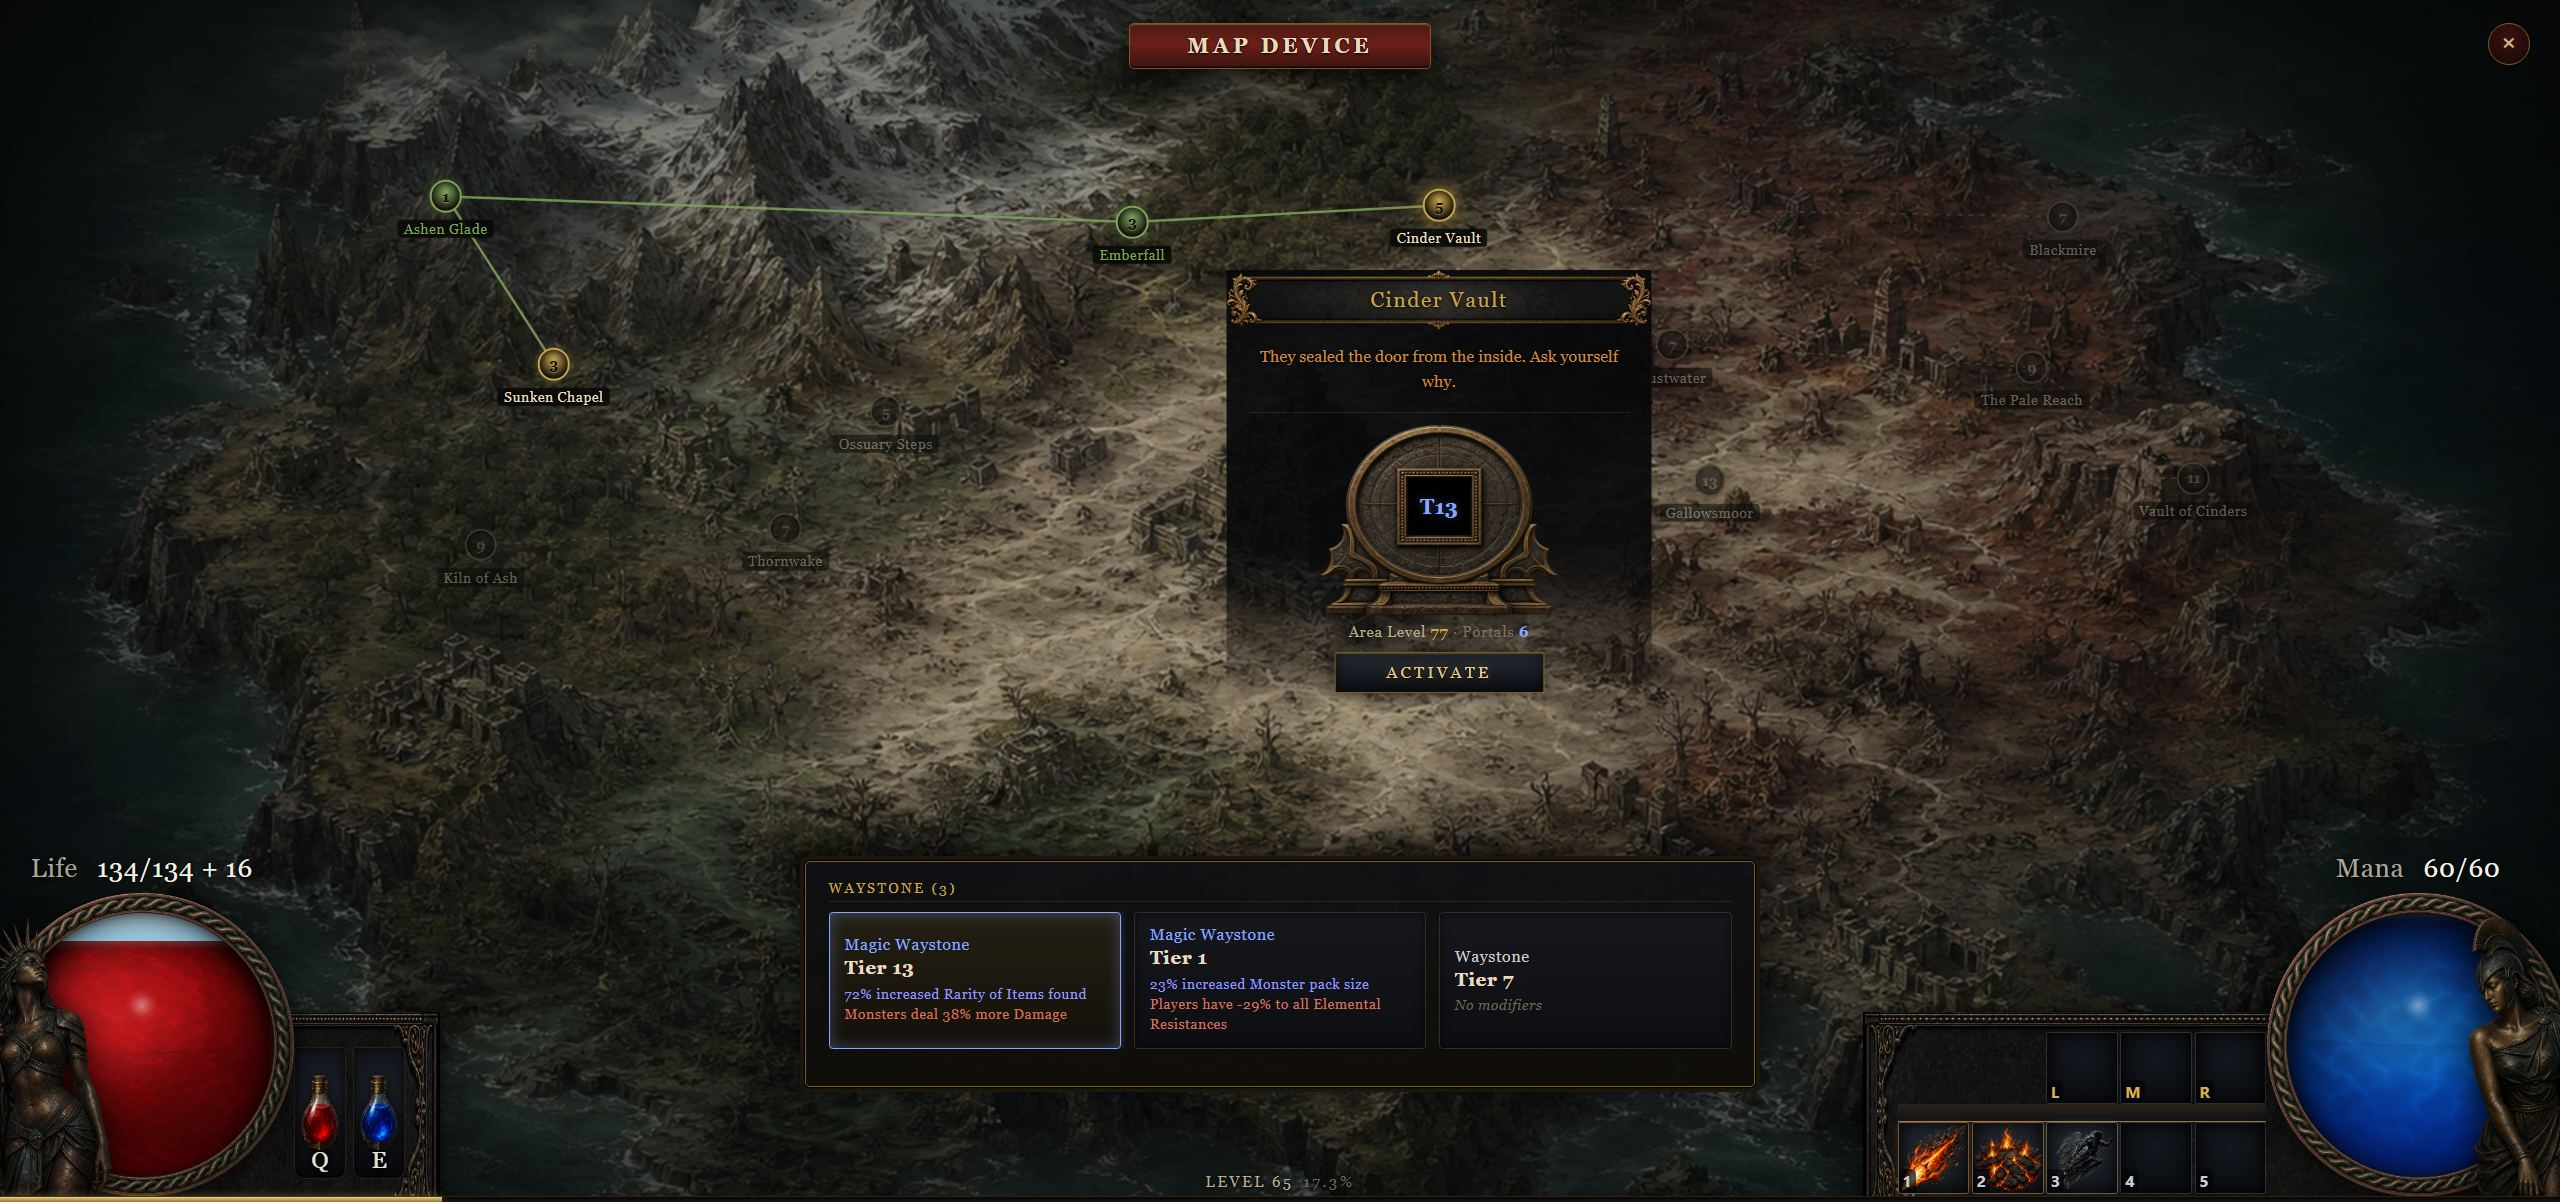
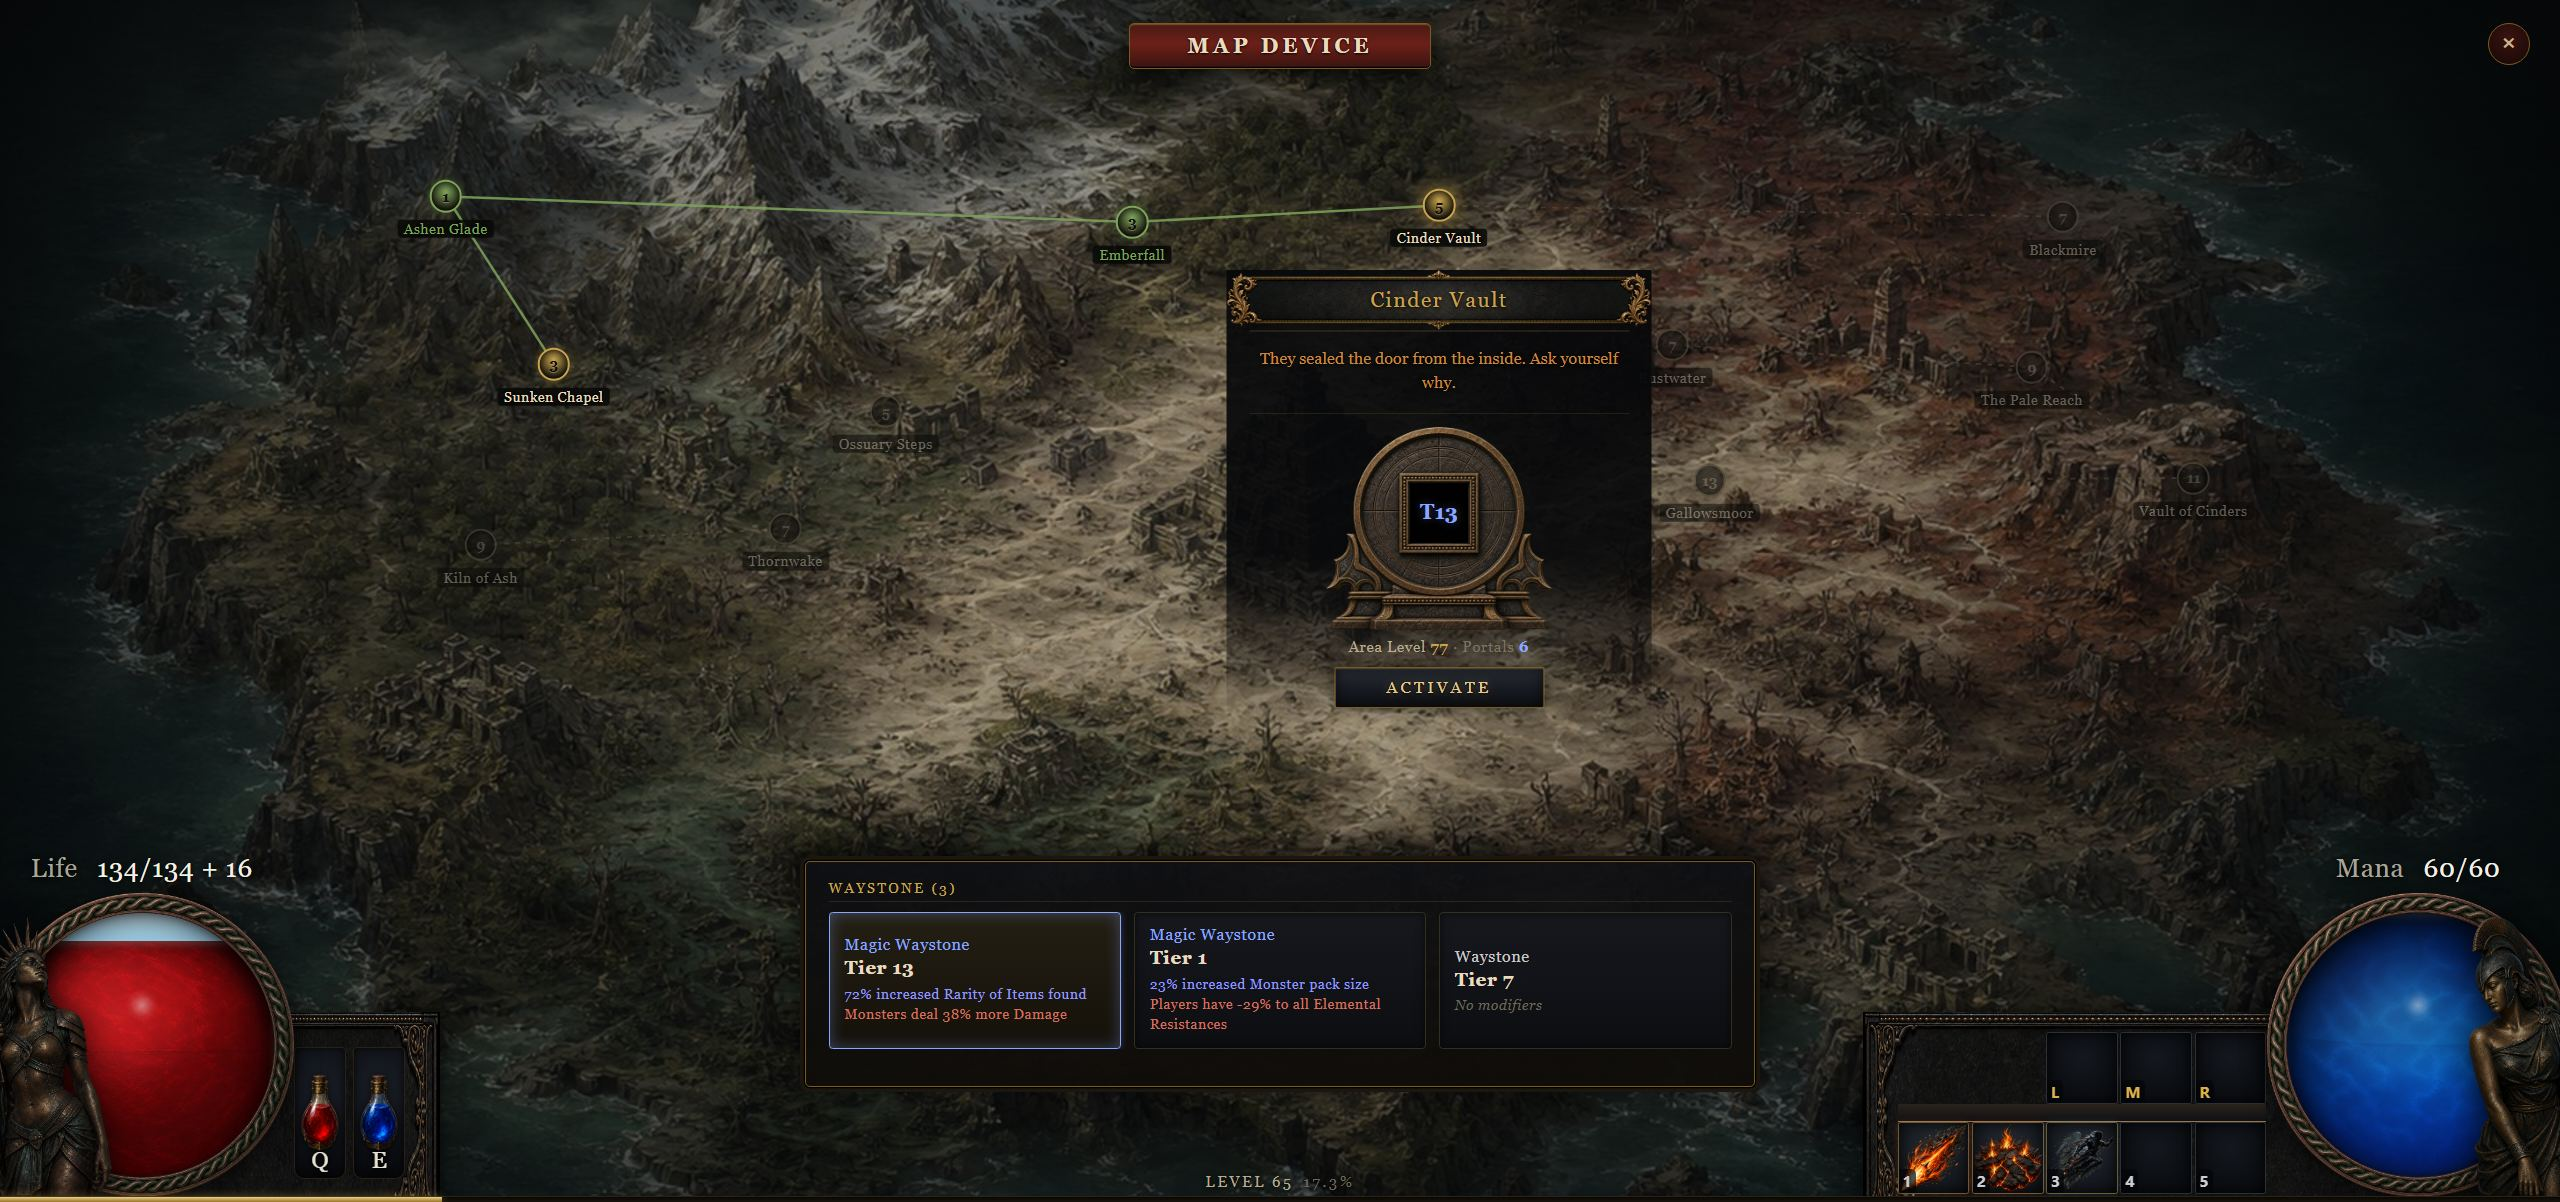
fix(atlas): the socket disc was an oval, 802 by 668
Regenerated on a square canvas with the ellipse named as the one defect: the
ring measures 759 by 759 now. The reject is deleted rather than kept, and both
assets are cropped to their alpha bounds and downscaled (1.5MB -> 422KB,
367KB -> 55KB) since neither is drawn wider than 340px.

Also: the reference screenshot recovered out of the session transcript to
poe2-screenshots/poe2-atlas-node-popup.png, a second hairline above the lore
where the reference has one, and a devlog rule to confirm the screen with the
user before capturing it.

Changed region(s): [[0.5, 0.3386, 0.625, 0.6156], [0.5, 0.277, 0.625, 0.3078]]

diff --git a/apps/web/src/hud/PreparationPanel.tsx b/apps/web/src/hud/PreparationPanel.tsx
@@ -236,12 +236,16 @@ function AtlasMap(props: {
   );
 }
 
-/** atlas_node_header_v1.png is 1024x144; the band keeps that ratio or the filigree shears. */
+/** atlas_node_header_v1.png is 512x72; the band keeps that ratio or the filigree shears. */
 const POPUP_W = 340;
-const HEADER_H = Math.round((POPUP_W * 144) / 1024);
-/** atlas_node_socket_v1.png is 1024x820, and its empty slot is centred on the disc. */
-const SOCKET_W = 190;
-const SOCKET_H = Math.round((SOCKET_W * 820) / 1024);
+const HEADER_H = Math.round((POPUP_W * 72) / 512);
+/**
+ * atlas_node_socket_v2.png is 512x464 and its disc fills 76% of that width, so this
+ * puts the disc at 40% of the panel, which is the ratio in poe2-atlas-node-popup.png.
+ * v1 was scrapped for an oval ring: it measured 802 wide by 668 tall.
+ */
+const SOCKET_W = 180;
+const SOCKET_H = Math.round((SOCKET_W * 464) / 512);
 
 /**
  * A place, opened. PoE2's Atlas answers a click on a node with a small panel
@@ -322,6 +326,9 @@ function NodePopup(props: {
         </span>
       </div>
 
+      {/* The lore sits between two hairlines in the reference, not under one. */}
+      <div style={{ height: 1, margin: "0 18px", background: `${GOLD}22` }} />
+
       {/* The rumour, in the reference's amber. It is the only line here that is
           not a number, and it is what makes a node a destination. */}
       <div
@@ -353,18 +360,18 @@ function NodePopup(props: {
           position: "relative",
           padding: 0,
           border: "none",
-          background: "url(/textures/ui/atlas_node_socket_v1.png) center/100% 100% no-repeat",
+          background: "url(/textures/ui/atlas_node_socket_v2.png) center/100% 100% no-repeat",
         }}
       >
         {stone && (
           <span
             style={{
               position: "absolute",
-              // Measured off the art: the empty slot spans x 376..649, y 223..477
-              // of 1024x820, so its centre is high of the image's middle because
+              // Measured off the art: the empty slot spans x 189..322, y 125..264
+              // of 512x464, so its centre is high of the image's middle because
               // the disc stands on a plinth.
               left: "50%",
-              top: "42.7%",
+              top: "41.9%",
               transform: "translate(-50%, -50%)",
               fontFamily: SERIF,
               // Sized to the slot: it is 273x254 of the art, so at this width the

diff --git a/devlog/README.md b/devlog/README.md
@@ -225,6 +225,6 @@ The hideout gets storage, quick transfer, and a bench that turns leftovers into 
 <td width="33%"><img src="screenshots/2026-07-27-vendor-purchase-window.jpeg" alt="The purchase window open at the left: a stocked shelf of gear with gold prices in each cell, a keyword box along its foot, and the shard bank under it" width="100%"><br><sub><b>The disenchanter becomes a shop</b> - the NPC has been standing over his brazier since the hideout was built, and all he could do was take things. Buying needs a price, and this game had no money at all: <code>docs/02</code> line 5 refuses to invent PoE's vendor price formulas because they were never published, which is exactly why the disenchanter pays in <em>shards</em> - the one economy number PoE2 does publish. So gold arrives, and every number in <code>vendor.ts</code> is ours and says so. The margin is the load-bearing one: a shop that pays what it charges is a gold printer, so the sell price is 20% of the ask, and the test that matters sweeps every rarity at every level asserting <code>sell &lt; buy</code> rather than checking one example. The shelf is the other half. It is rolled in the sim from the seed, never in React, or replay checksums drift - and it is a pure function of the world seed <em>and the level that asked for it</em>, so <code>docs/02</code> §17's "a portion refreshes on level-up" costs one line at the level-up rather than a mutable restock seed on the session. It still had to be a real container: derive it fresh on load and a reload silently restocks whatever was just bought, so the holes persist. Two things the reference settled that instinct would have got wrong. PoE1's keyword box <b>highlights</b> rather than filters - the goods stay where they are and everything else falls back, so a half-typed word never reshuffles the shelf under the cursor. And the gold counter is not in the purchase window at all; it lives in the inventory strip beside it, which is where ours already had a hardcoded <code>0</code> waiting. One deliberate departure: the reference grid is 12x12 and ours is 12x8, because PoE1's vendors stock a whole page and ours stocks twelve pieces - the four rows saved are what keeps the sell block clear of the life globe instead of behind it. Selling is still one gesture and now pays twice: everything the counter takes pays gold, and magic or better <em>also</em> breaks down into shards, so the pips survive rather than being replaced by a flat coin payout. That also fixed a bug the stash has been hiding since it shipped - <code>position: sticky</code> measures <code>top</code> from the scrollport's padding edge, so a header pulled up by a negative margin and pinned at <code>0</code> parks 20px lower than the flow put it and quietly eats that much of the next child. Invisible under a grid's empty lattice; not invisible under a caption.</sub></td>
 </tr>
 <tr>
-<td width="33%"><img src="screenshots/2026-07-27-atlas-node-panel.jpeg" alt="The Atlas with Cinder Vault opened: a small dark panel standing on that node with a gilt filigree name band, an amber line of lore, a carved socket holding a Tier 13 stone, and ACTIVATE under it" width="100%"><br><sub><b>A place opens where it stands</b> - the Atlas answered a click on a node by lighting the medallion and filling in a form at the bottom of the screen, which is a settings dialog wearing a map. PoE2 answers it with a small panel standing <em>on the node</em>, and the anchoring is the whole feature: what you are about to commit six portals to is drawn on the exact spot you are committing to, so the decision stays a decision about a place rather than about a row in a list. It lives inside the node field for that reason, so its <code>left</code> is the node's own graph coordinate and not a pixel offset that has to be recomputed when the field is inset. Three things only the reference settles. It flips <b>below</b> the medallion near the top edge and above it everywhere else, and below has 26px further to fall than above needs to rise, because the medallion wears its name plate underneath and the one thing this panel must never cover is the name of the place it just opened. The body has straight sides and no bottom edge at all - it hangs off its header band and dissolves into the ground, so the map and the panel stay one picture; the first pass faded all three sides into a soft blob and lost the reference's plate entirely. And the lore line is the only thing on the panel that is neither a number nor a colour, which is exactly what makes a node a destination instead of a chore: <code>flavour</code> is fixed per node index alongside the name, because the layout is seeded per account and the place is not. The socket is generated art rather than a CSS box, and its slot was <em>measured</em> off the file - x 376..649, y 223..477 of 1024x820 - so the stone sits in the opening at any panel width instead of near it, with the tier glyph sized to the ~50px hole rather than climbing the moulding. Clicking the socket takes the stone back out; clicking the node again shuts the place, since a panel standing on the map has to be dismissible without losing your place on it. The stone tray stays docked at the foot and keeps the choosing, because a rare Waystone's four modifier lines do not fit in a 340px column and shrinking them to fit would hide the risk this panel exists to show.</sub></td>
+<td width="33%"><img src="screenshots/2026-07-27-atlas-node-panel.jpeg" alt="The Atlas with Cinder Vault opened: a small dark panel standing on that node with a gilt filigree name band, an amber line of lore, a carved socket holding a Tier 13 stone, and ACTIVATE under it" width="100%"><br><sub><b>A place opens where it stands</b> - the Atlas answered a click on a node by lighting the medallion and filling in a form at the bottom of the screen, which is a settings dialog wearing a map. PoE2 answers it with a small panel standing <em>on the node</em>, and the anchoring is the whole feature: what you are about to commit six portals to is drawn on the exact spot you are committing to, so the decision stays a decision about a place rather than about a row in a list. It lives inside the node field for that reason, so its <code>left</code> is the node's own graph coordinate and not a pixel offset that has to be recomputed when the field is inset. Three things only the reference settles. It flips <b>below</b> the medallion near the top edge and above it everywhere else, and below has 26px further to fall than above needs to rise, because the medallion wears its name plate underneath and the one thing this panel must never cover is the name of the place it just opened. The body has straight sides and no bottom edge at all - it hangs off its header band and dissolves into the ground, so the map and the panel stay one picture; the first pass faded all three sides into a soft blob and lost the reference's plate entirely. And the lore line is the only thing on the panel that is neither a number nor a colour, which is exactly what makes a node a destination instead of a chore: <code>flavour</code> is fixed per node index alongside the name, because the layout is seeded per account and the place is not. The socket is generated art rather than a CSS box, and its slot was <em>measured</em> off the file - x 189..322, y 125..264 of 512x464 - so the stone sits in the opening at any panel width instead of near it, with the tier glyph sized to the hole rather than climbing the moulding. The first render of it shipped and was rejected on sight for a reason worth measuring rather than arguing: "that portal art is not even rounded correctly". The disc was an <b>oval</b>, 802 wide by 668 tall, a 1.20:1 ellipse from a prompt that had asked for a round one - and the giveaway is that the widest row of the ring sits 334px below its top instead of 401, which is a two-line check and settles it without a squint. The regeneration was given the ellipse as the single defect and a square 1024x1024 canvas so a circle had room to be one; it came back 759 by 759, and the oval was deleted rather than kept, because a 1.5MB reject is the same waste as the 4.9MB world PNG this project already threw away. Clicking the socket takes the stone back out; clicking the node again shuts the place, since a panel standing on the map has to be dismissible without losing your place on it. The stone tray stays docked at the foot and keeps the choosing, because a rare Waystone's four modifier lines do not fit in a 340px column and shrinking them to fit would hide the risk this panel exists to show.</sub></td>
 </tr>
 </table>

diff --git a/CLAUDE.md b/CLAUDE.md
@@ -26,6 +26,7 @@ iterating so the result matches the original game exactly. Do not design from me
 - `inside-map.jpg`, `inside-map-battle.webp` — in-map areas + combat
 - `boss-fight.png` — boss encounter
 - `atlas-maps.webp` — Atlas / waystone map screen
+- `poe2-atlas-node-popup.png` — PoE2 Atlas: the panel one node opens (name band, lore, socket, ACTIVATE)
 - `item-normal.png`, `item-magic.png`, `item-rare.png`, `item-unique.png` — item hover/tooltip look per rarity (colors, header, stat lines)
 - `inventory+equipment.png` — full inventory screen: equipment paper-doll, flasks, currency, backpack grid
 - `inventory.png` — PoE1 inventory: full-height pane, 12x5 grid edge to edge, currency strip at its foot
@@ -111,6 +112,8 @@ PoE2 itemization actually works — do not invent mechanics or colors from memor
 
 ## Devlog — SCREENSHOT EACH VISIBLE STEP
 
+- **Ask the user to confirm the screen before you capture it.** Say what is on it and wait; a devlog
+  shot of the wrong state, or of a state the user has not signed off, is worse than no shot.
 - After any step with a visible result, screenshot the running app into `devlog/screenshots/` named
   `YYYY-MM-DD-<slug>.jpeg` (JPEG q75-80; use a small PNG only when transparency/fine detail needs it).
 - Add that shot to `devlog/README.md` under its date with a one-line caption. Chronological, one entry per slice.
